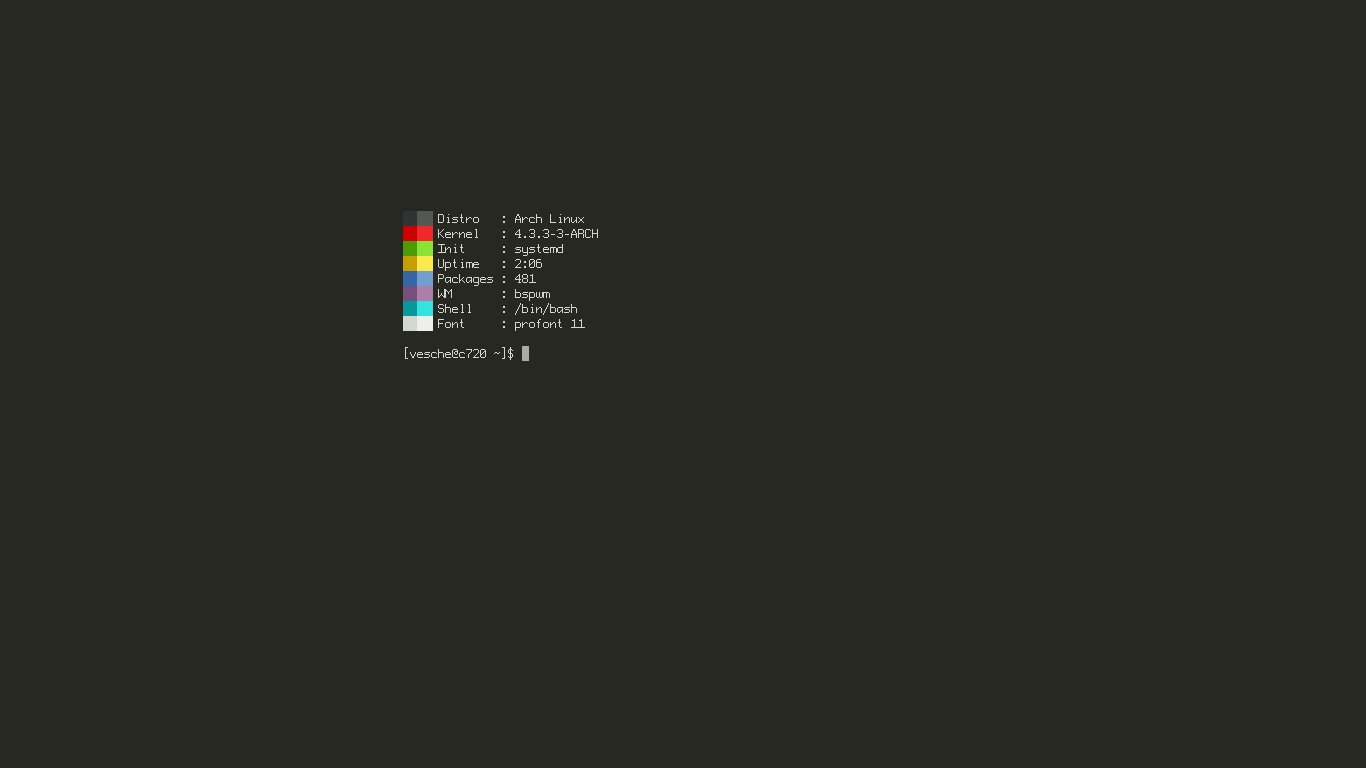
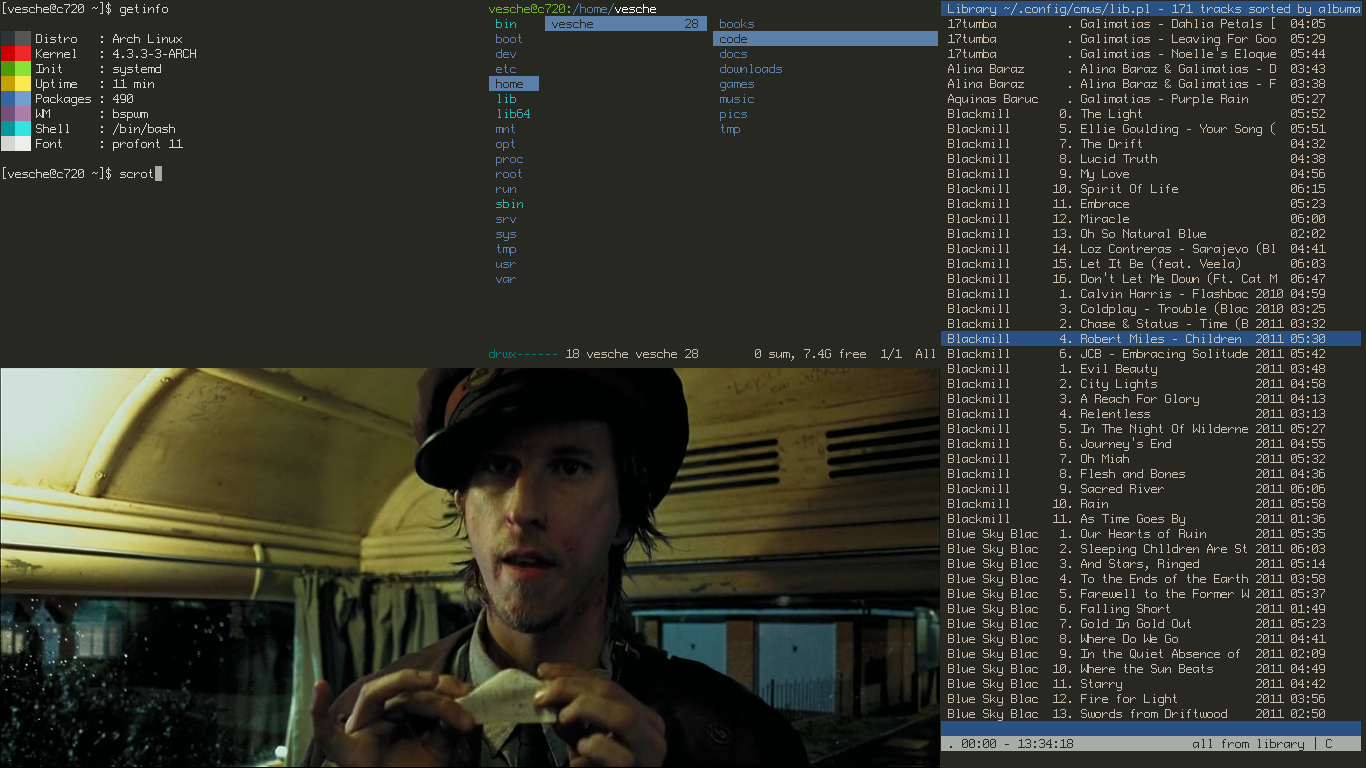
update scrot

diff --git a/README.md b/README.md
@@ -1,8 +1,7 @@
 # dotfiles
 
-Personal dotfiles used on my Acer C720 running Arch Linux.  
-bspwm, terminator, dmenu
+Personal dotfiles used on my Acer C720 running Arch Linux.
 
 ## scrot
 
-![clean](scrot.png)
+![scrot](scrot.png)
